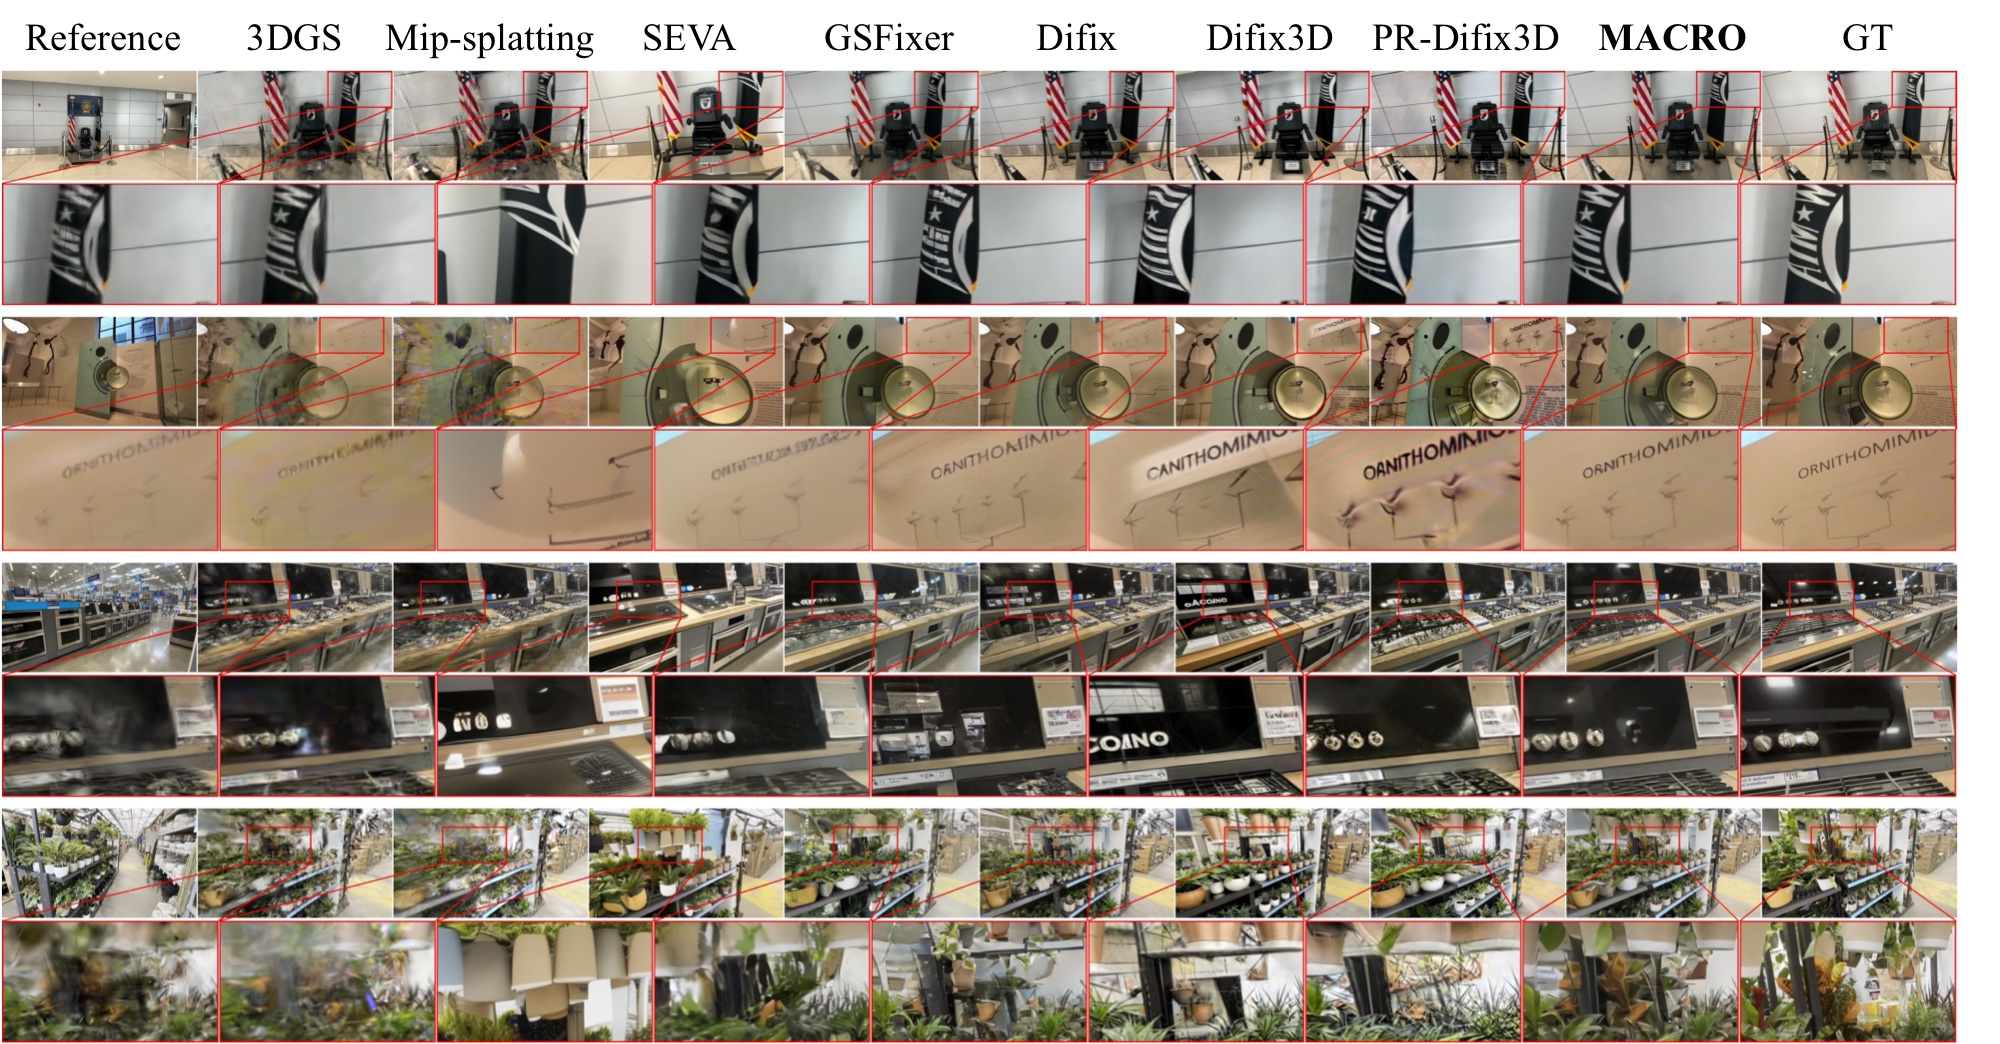
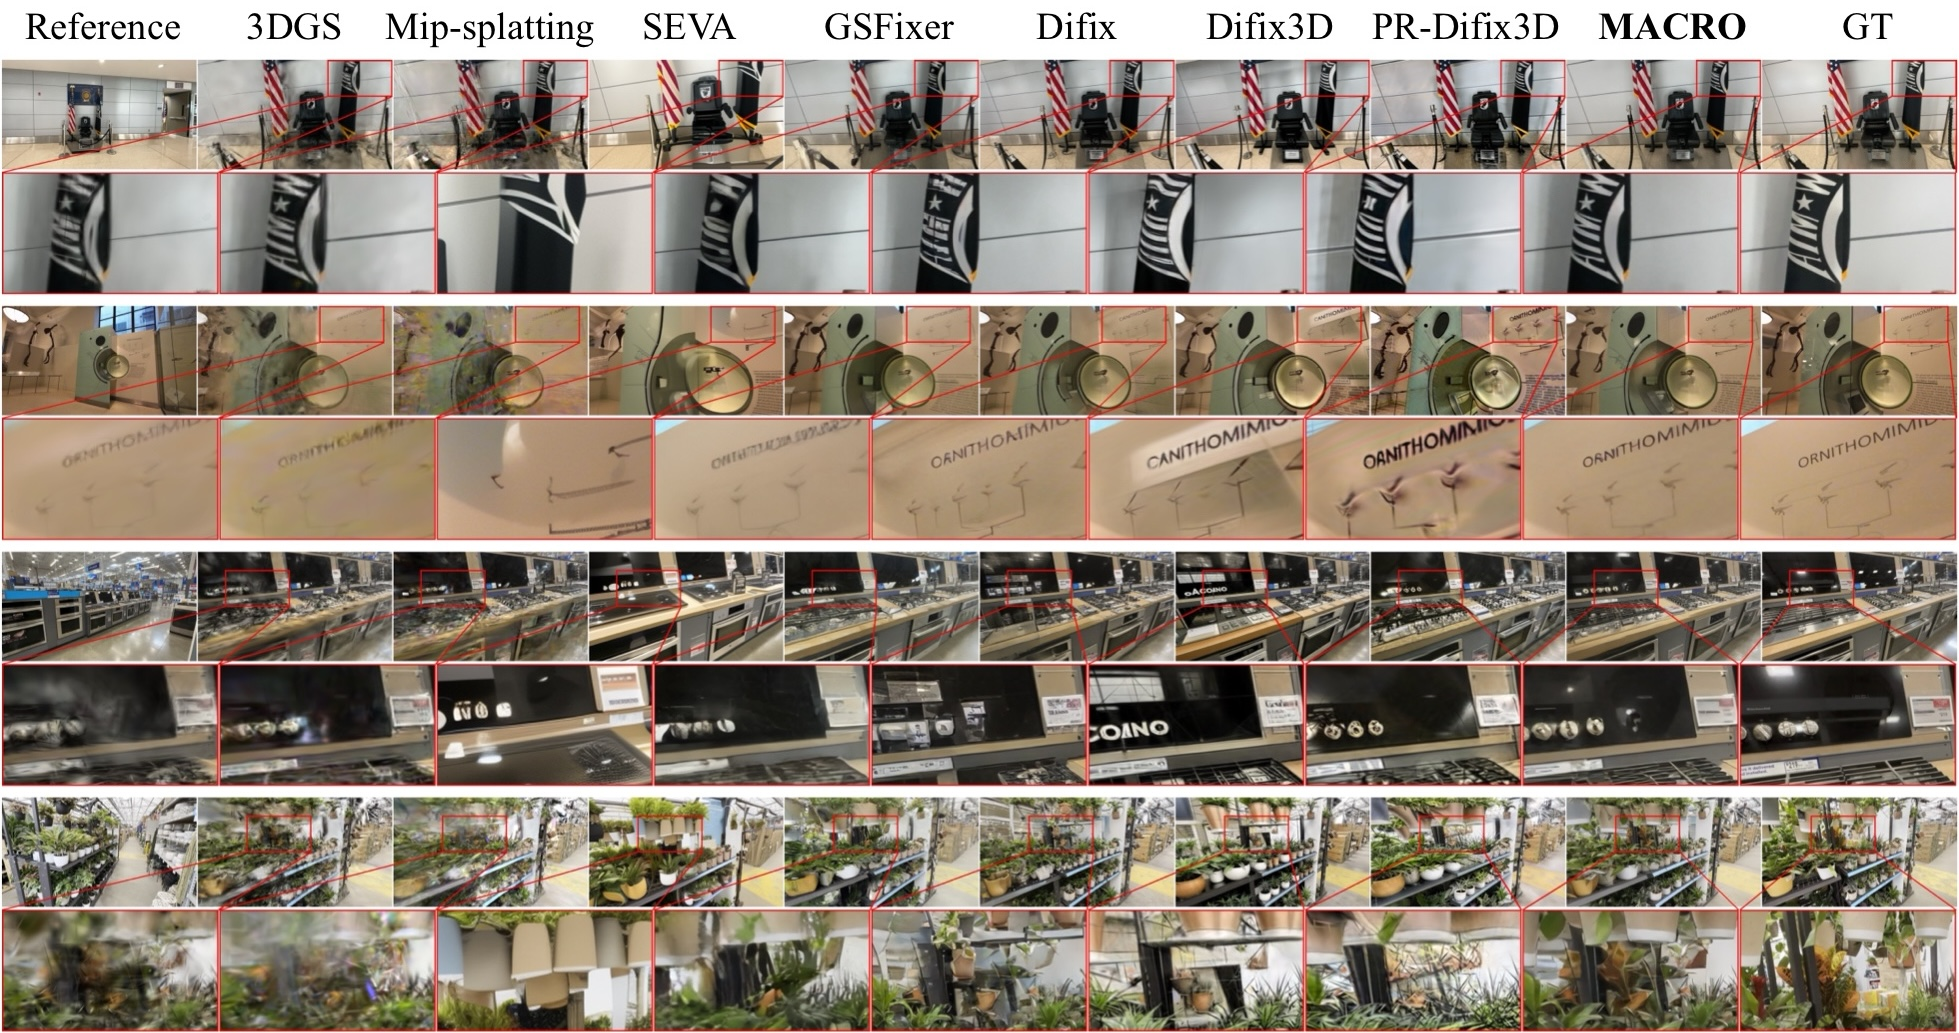
Add light/dark theme toggle; fix BibTeX dark styling; crop DL3DV image margin
- Self-contained light/dark toggle (fixed button, persists via localStorage,
  defaults to OS preference, no flash of wrong theme).
- Dark-mode overrides for sections, text, links, footer, and the BibTeX
  block (target pre+code with !important to beat Bulma defaults).
- Crop the white right margin off the DL3DV qualitative comparison image
  (apparent in dark mode).

diff --git a/index.html b/index.html
@@ -50,9 +50,56 @@
     .vid-col .lbl { font-weight: 600; margin-bottom: 4px; }
     .vid-col .lbl.ours { color: #7b2d5e; }
     .scene-title { font-weight: 700; text-align: center; margin-bottom: 0.5rem; }
+
+    /* Theme toggle button */
+    #theme-toggle {
+      position: fixed; top: 1rem; right: 1rem; z-index: 50;
+      width: 2.6rem; height: 2.6rem; border-radius: 50%;
+      border: 1px solid #dbdbdb; background: #fff; color: #333;
+      cursor: pointer; font-size: 1.1rem; line-height: 1;
+      box-shadow: 0 1px 4px rgba(0,0,0,.15);
+    }
+
+    /* --- Dark theme --------------------------------------------------- */
+    html[data-theme="dark"] { background: #14161a; }
+    html[data-theme="dark"] body { background: #14161a; color: #e6e6e6; }
+    html[data-theme="dark"] .hero,
+    html[data-theme="dark"] .section,
+    html[data-theme="dark"] .hero.is-light,
+    html[data-theme="dark"] .section.hero.is-light { background-color: #14161a !important; }
+    html[data-theme="dark"] .title,
+    html[data-theme="dark"] .subtitle,
+    html[data-theme="dark"] .content,
+    html[data-theme="dark"] .publication-authors,
+    html[data-theme="dark"] .scene-title,
+    html[data-theme="dark"] .vid-col .lbl { color: #e6e6e6 !important; }
+    html[data-theme="dark"] .caption { color: #a9adb4 !important; }
+    html[data-theme="dark"] a { color: #9db7ff; }
+    html[data-theme="dark"] .vid-col .lbl.ours { color: #c98bbb !important; }
+    html[data-theme="dark"] #BibTeX pre,
+    html[data-theme="dark"] #BibTeX pre code,
+    html[data-theme="dark"] #BibTeX code { background: #1e2127 !important; color: #e6e6e6 !important; }
+    html[data-theme="dark"] .footer { background-color: #0f1115 !important; }
+    html[data-theme="dark"] .footer .content { color: #a9adb4 !important; }
+    html[data-theme="dark"] #theme-toggle {
+      background: #1e2127; color: #f2d06b; border-color: #333;
+    }
+    /* Keep the dark hero buttons legible in dark mode */
+    html[data-theme="dark"] .button.is-dark { background:#2b2f36; color:#e6e6e6; border-color:#3a3f47; }
   </style>
 </head>
 <body>
+<button id="theme-toggle" type="button" title="Toggle light/dark" aria-label="Toggle light/dark theme">🌙</button>
+<script>
+  // Apply theme ASAP to avoid a flash of the wrong theme.
+  (function () {
+    var saved = null;
+    try { saved = localStorage.getItem('macro-theme'); } catch (e) {}
+    var prefersDark = window.matchMedia && window.matchMedia('(prefers-color-scheme: dark)').matches;
+    var theme = saved || (prefersDark ? 'dark' : 'light');
+    document.documentElement.setAttribute('data-theme', theme);
+  })();
+</script>
 
 <!-- Hero: title / authors / links -->
 <section class="hero">
@@ -243,6 +290,20 @@
 </footer>
 
 <script>
+// Theme toggle: flip data-theme, persist choice, sync the button icon.
+(function () {
+  const btn = document.getElementById('theme-toggle');
+  const root = document.documentElement;
+  const syncIcon = () => { btn.textContent = root.getAttribute('data-theme') === 'dark' ? '☀️' : '🌙'; };
+  syncIcon();
+  btn.addEventListener('click', () => {
+    const next = root.getAttribute('data-theme') === 'dark' ? 'light' : 'dark';
+    root.setAttribute('data-theme', next);
+    try { localStorage.setItem('macro-theme', next); } catch (e) {}
+    syncIcon();
+  });
+})();
+
 // Wide->Close->Wide trajectory scenes (eased pacing, lingering at the close-up).
 function label(ds, id) {
   const pretty = id.replace(/_/g, ' ');